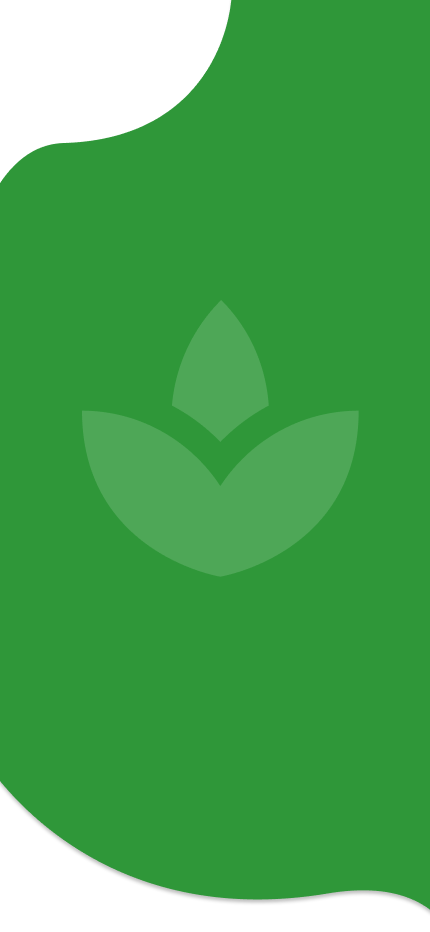
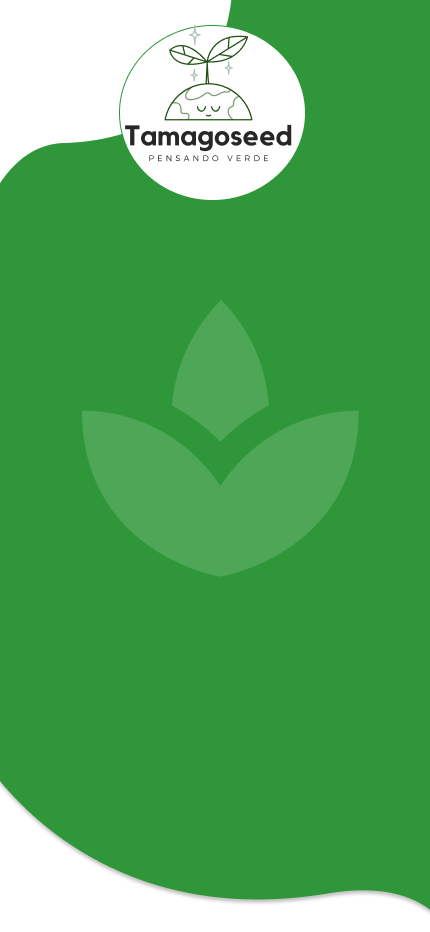
Página de login Css

Changed region(s): [[0.2721, 0.0311, 0.7256, 0.2178]]

diff --git a/src/pages/home/style.js b/src/pages/home/style.js
@@ -1,5 +1,8 @@
 import { styled } from "styled-components";
 import background from '../../img/FundoHome.png';
+import iconEmail from '../../img/email.svg';
+import iconSenha from '../../img/senha.svg';
+import logo from '../../img/logo.svg';
 
 export const Container = styled.div`
   display: flex;
@@ -13,6 +16,13 @@ export const Container = styled.div`
   background-color: #2f973a;
   width: 430px;
   height: 932px;
+  font-family: 'Madimi One', sans-serif;
+`;
+
+export const Logo = styled.div`
+  display: flex;
+  background-image: url(${logo});
+  background-repeat: no-repeat;
 `;
 
 export const Textao = styled.h1`
@@ -20,31 +30,59 @@ export const Textao = styled.h1`
   align-items: center;
   font-style: bold;
   color: white;
+  font-family: 'Madimi One', sans-serif;
 `;
 
 export const Form = styled.form`
   display: grid;
   flex-direction: column;
-  gap: 50vh;
+  gap: 7vh;
   input[type="email"],
+  select {
+    width: 100%;
+    padding: 1.5vh 9vh;
+    margin: 1vh 0;
+    border: 0.1vh solid #ccc;
+    border-radius: 1vh;
+    box-sizing: border-box;
+    background-image: url(${iconEmail});
+    background-repeat: no-repeat;
+    background-position:1vh center; 
+    padding-left: 5vh;
+  }
   input[type="password"],
   select {
     width: 100%;
-    padding: 12px 20px;
-    margin: 8px 0;
-    display: inline-block;
-    border: 1px solid #ccc;
-    border-radius: 4px;
+    padding: 1.5vh 9vh;
+    margin: 1vh 0;
+    border: 0.1vh solid #ccc;
+    border-radius: 1vh;
     box-sizing: border-box;
+    background-image: url(${iconSenha});
+    background-repeat: no-repeat;
+    background-position:1vh center; 
+    padding-left: 5vh;
+  }
+  input[type="email"]::placeholder,
+  input[type="password"]::placeholder,
+  select::placeholder {
+    color: #2f973a;
   }
 `;
+
+
 
 export const Login = styled.div`
   display: flex;
   justify-content: center;
   flex-direction: column;
   align-items: center;
+  color: white;
 
+  a {
+    text-decoration: none;
+    color: white;
+  }
   button:hover {
     background-color: white;
   }
@@ -53,14 +91,14 @@ export const LoginButton = styled.button`
   background-color: white;
   border: none;
   color: #2f973a;
-  padding: 15px 32px;
+  padding: 1.5vh 7vh;
   text-align: center;
   text-decoration: none;
   display: inline-block;
   font-size: 16px;
   margin: 4px 2px;
   cursor: pointer;
-  border-radius: 1.5rem;
+  border-radius: 3vh;
   transition: background-color 0.5s ease;
 `;
 export const FormComponent = styled.div`
@@ -69,3 +107,8 @@ export const FormComponent = styled.div`
   flex-direction: column;
   align-items: center;
 `;
+
+export const LoginContainer = styled.div`
+ display: flex;
+ margin-top: 10vh;
+`

diff --git a/src/pages/home/index.jsx b/src/pages/home/index.jsx
@@ -5,16 +5,18 @@ export default function Home() {
     <Css.Container>
       <Css.Textao>Bem vindo Florzinha</Css.Textao>
       <Css.Form>
-      <Css.FormComponent>
-          <input type="email" placeholder="Digite seu email"></input>
-          <input type="password" placeholder="Digite sua senha"></input>
-      </Css.FormComponent>
-          <Css.Login>
-            <Css.LoginButton>Login</Css.LoginButton>
-            <p>
-              Não tem login?<b>Registre-se</b>
-            </p>
-          </Css.Login>
+        <Css.LoginContainer>
+          <Css.FormComponent>
+            <input type="email" placeholder="Email"></input>
+            <input type="password" placeholder="Senha"></input>
+          </Css.FormComponent>
+        </Css.LoginContainer>  
+            <Css.Login>
+              <Css.LoginButton>Login</Css.LoginButton>
+              <p>
+                Não tem login?<b><a href="../home/index.jsx"> Registre-se</a></b>
+              </p>
+            </Css.Login>
         </Css.Form>
     </Css.Container>
   );
